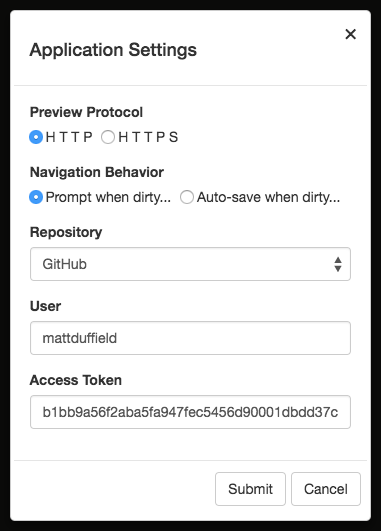
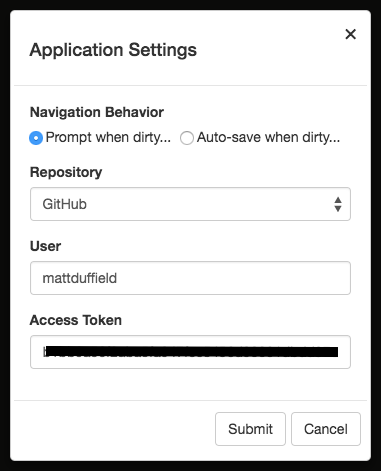
Updated Login docs.

diff --git a/docs/basics/login/readme.md b/docs/basics/login/readme.md
@@ -41,11 +41,11 @@ Clicking on the avatar lauches the **User Settings** dialog as shown below:
 The **User Settings** dialog contains the following items:
 
 - **Version** - the version of the application
+- **User ID** - the unique user ID
 - **User** - the user name
-- **Database** - this is the name of the backend database
 - **Help Documentation** - a link to the help documentation
 - **Feedback** - an opportunity to provide feedback
-- **Application Settings** - this is where you can make some global settings for the application
+- **Settings** - this is where you can make some global settings for the application
 - **Logout** - button to log out
 - **Cancel** - button to cancel and close the dialog
 
@@ -57,14 +57,13 @@ The **Feedback** dialog is meant to give you an opportunity to provide feedback 
 
 Here you can provide what type of feedback you want to provide as well as a summary of anything else you wish to send. Clicking the **Submit** button will send the information to **FrontEnd Creator**.
 
-### Application Settings
+### Settings
 
 The **Application Settings** dialog allows you to configure global settings for **FrontEnd Creator**. Clicking on the **Application Settings** link will present you with the following dialog:
   ![Entry 10][10]
 
 In this dialog, you are able to configure the following:
 
-- **Preview Protocol** - this allows you to preview your project using HTTP or HTTPS. It defaults to HTTP
 - **Navigation Behavior** - this allows you to allow the application to auto-save when navigating away from a dirty file or to prompt the user
 - **Source Control Repository** - this allows you to provide credentials currently for GitHub and Bitbucket
 
